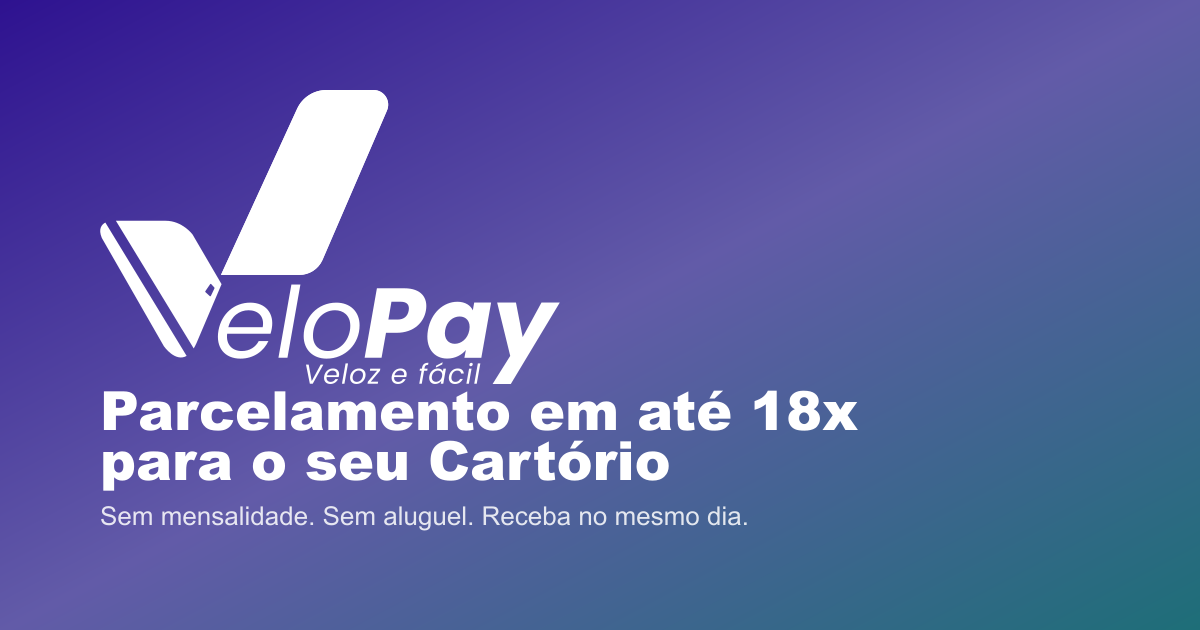
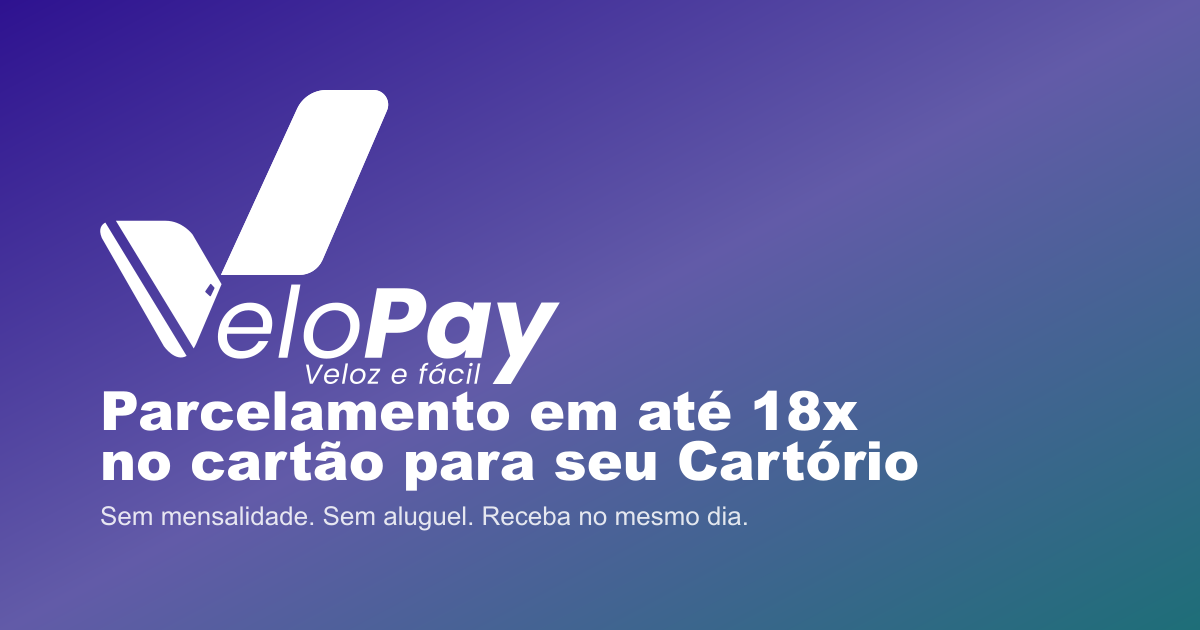
Ajustes finos de acabamento visual pós-rebrand
- Ícone do WhatsApp trocado de preenchido para contorno, consistente com o
  restante do sistema de ícones do site
- Overlay escurecido atrás do menu mobile ao abrir (fecha ao clicar fora)
- Texto do card de Open Graph atualizado pra bater com o H1 real da página
- Remoção de CSS morto de versões anteriores do design (.hero-tag,
  .tag-dot, .hero-above-card, .nav-logo img, .hero-logo-main, .cta-logo)

Changed region(s): [[0.0617, 0.6937, 0.7708, 0.7841]]

diff --git a/index.html b/index.html
@@ -43,7 +43,6 @@ a{text-decoration:none;color:inherit}
 
 /* ── NAV ── */
 nav{position:fixed;top:0;left:0;right:0;z-index:200;display:flex;align-items:center;justify-content:space-between;padding:0 64px;height:70px;background:rgba(255,255,255,0.94);backdrop-filter:blur(20px);border-bottom:1px solid var(--border)}
-.nav-logo img{height:64px;width:auto;object-fit:contain}
 .nav-links{display:flex;gap:34px;list-style:none}
 .nav-links a{color:var(--muted);font-size:0.88rem;font-weight:500;transition:color 0.2s}
 .nav-links a:hover{color:var(--purple)}
@@ -59,6 +58,8 @@ nav{position:fixed;top:0;left:0;right:0;z-index:200;display:flex;align-items:cen
 .nav-burger[aria-expanded="true"] span:nth-child(3){transform:translateY(-7px) rotate(-45deg)}
 .mobile-menu{display:none;position:fixed;top:70px;left:0;right:0;z-index:199;background:var(--white);border-bottom:1px solid var(--border);box-shadow:0 16px 32px rgba(16,12,40,0.1);flex-direction:column;gap:18px;max-height:0;overflow:hidden;opacity:0;padding:0 28px;transition:max-height 0.3s ease,opacity 0.3s ease,padding 0.3s ease}
 .mobile-menu.open{max-height:420px;opacity:1;padding:20px 28px}
+.mobile-menu-backdrop{display:none;position:fixed;top:70px;left:0;right:0;bottom:0;z-index:198;background:rgba(16,12,40,0.4);opacity:0;pointer-events:none;transition:opacity 0.3s ease}
+.mobile-menu-backdrop.open{opacity:1;pointer-events:auto}
 .mobile-menu-links{list-style:none;display:flex;flex-direction:column;gap:2px}
 .mobile-menu-links a{display:block;padding:13px 2px;color:var(--text);font-size:0.95rem;font-weight:600;border-bottom:1px solid var(--border)}
 .mobile-menu-actions{display:flex;flex-direction:column;gap:10px;margin-top:8px}
@@ -71,10 +72,6 @@ nav{position:fixed;top:0;left:0;right:0;z-index:200;display:flex;align-items:cen
 .hero-blob-2{position:absolute;bottom:-180px;left:-100px;width:500px;height:500px;border-radius:50%;background:radial-gradient(circle,rgba(58,163,179,0.09) 0%,transparent 65%);pointer-events:none}
 .hero-dot-grid{position:absolute;inset:0;background-image:radial-gradient(circle,rgba(98,91,168,0.11) 1.2px,transparent 1.2px);background-size:36px 36px;mask-image:radial-gradient(ellipse 75% 75% at 65% 40%,black 0%,transparent 80%);pointer-events:none}
 .hero-inner{position:relative;z-index:1;display:grid;grid-template-columns:1fr 1fr;gap:52px;align-items:center;max-width:1280px;margin:0 auto;width:100%}
-.hero-logo-main{margin-bottom:28px}.hero-logo-main img{height:90px;width:auto;object-fit:contain}
-.hero-tag{display:inline-flex;align-items:center;gap:8px;background:var(--success-light);border:1px solid rgba(63,145,66,0.28);color:var(--success);padding:6px 14px;border-radius:6px;font-size:0.75rem;font-weight:700;letter-spacing:0.07em;text-transform:uppercase;margin-bottom:20px}
-.tag-dot{width:6px;height:6px;border-radius:50%;background:var(--success);animation:blink 2s infinite}
-@keyframes blink{0%,100%{opacity:1}50%{opacity:0.3}}
 .hero h1{font-size:clamp(3rem,5vw,5.2rem);font-weight:900;line-height:0.97;letter-spacing:-0.045em;color:var(--dark);margin-bottom:22px}
 .h1-block{display:block}
 .h1-purple{color:var(--purple)}
@@ -103,7 +100,6 @@ nav{position:fixed;top:0;left:0;right:0;z-index:200;display:flex;align-items:cen
   object-fit:contain;
   filter:drop-shadow(0 8px 24px rgba(98,91,168,0.18));
 }
-.hero-above-card{font-family:'Bricolage Grotesque',sans-serif;font-weight:800;font-size:0.82rem;letter-spacing:0.08em;text-transform:uppercase;color:var(--purple);background:var(--purple-light);border:1px solid rgba(98,91,168,0.2);padding:8px 16px;border-radius:6px;text-align:center;margin-bottom:18px;}
 .hero-right{position:relative;display:flex;align-items:center;justify-content:center;padding:48px 24px}
 .credit-card{width:330px;height:202px;border-radius:20px;background:linear-gradient(135deg,#2E1290 0%,#625BA8 45%,#1E6E78 100%);box-shadow:0 40px 72px rgba(98,91,168,0.3),0 12px 28px rgba(0,0,0,0.15),inset 0 1px 0 rgba(255,255,255,0.2);padding:22px 24px;transform:perspective(900px) rotateY(-14deg) rotateX(5deg);transition:transform 0.7s ease;position:relative;overflow:hidden}
 .credit-card:hover{transform:perspective(900px) rotateY(-5deg) rotateX(2deg)}
@@ -255,7 +251,6 @@ nav{position:fixed;top:0;left:0;right:0;z-index:200;display:flex;align-items:cen
 .cta-grid-overlay{position:absolute;inset:0;background-image:linear-gradient(rgba(255,255,255,0.04) 1px,transparent 1px),linear-gradient(90deg,rgba(255,255,255,0.04) 1px,transparent 1px);background-size:52px 52px;pointer-events:none}
 .cta-glow{position:absolute;top:50%;left:50%;transform:translate(-50%,-50%);width:700px;height:350px;border-radius:50%;background:radial-gradient(ellipse,rgba(255,255,255,0.06) 0%,transparent 70%);pointer-events:none}
 .cta-inner{position:relative;z-index:1;max-width:640px;margin:0 auto}
-.cta-logo{margin-bottom:24px}.cta-logo img{height:64px;width:auto;object-fit:contain;filter:brightness(0) invert(1);opacity:0.88}
 .cta-eyebrow{display:inline-flex;align-items:center;gap:8px;font-size:0.73rem;font-weight:700;letter-spacing:0.12em;text-transform:uppercase;color:rgba(255,255,255,0.5);margin-bottom:16px}
 .cta-eyebrow::before{content:'';width:18px;height:2px;background:rgba(255,255,255,0.35);border-radius:2px}
 .cta-title{font-family:'Bricolage Grotesque',sans-serif;font-weight:900;font-size:clamp(2.4rem,4vw,3.6rem);line-height:1.06;letter-spacing:-0.035em;color:white;margin-bottom:12px}
@@ -295,7 +290,7 @@ footer{background:var(--dark2);padding:60px 64px 28px;border-top:1px solid rgba(
 /* ── RESPONSIVE ── */
 @media(max-width:1024px){
   nav{padding:0 20px}.nav-links{display:none}.nav-actions{display:none}
-  .nav-burger{display:flex}.mobile-menu{display:flex}
+  .nav-burger{display:flex}.mobile-menu{display:flex}.mobile-menu-backdrop{display:block}
   .sec-wrap,.cta-sec,footer{padding:68px 28px}
   .hero{padding:108px 28px 68px}
   .hero-inner{grid-template-columns:1fr}.hero-right{display:none}
@@ -334,6 +329,7 @@ footer{background:var(--dark2);padding:60px 64px 28px;border-top:1px solid rgba(
     <span></span><span></span><span></span>
   </button>
 </nav>
+<div class="mobile-menu-backdrop" id="mobileMenuBackdrop"></div>
 <div class="mobile-menu" id="mobileMenu">
   <ul class="mobile-menu-links">
     <li><a href="#como-funciona">Como funciona</a></li>
@@ -361,7 +357,7 @@ footer{background:var(--dark2);padding:60px 64px 28px;border-top:1px solid rgba(
       <p class="hero-desc">A plataforma para o seu cartório aceitar pagamentos no cartão — sem aluguel, sem mensalidade, com aplicação personalizada.</p>
       <div class="hero-btns">
         <a href="https://wa.me/5561985177034" class="btn-primary" target="_blank">
-          <svg width="17" height="17" viewBox="0 0 24 24" fill="currentColor"><path d="M17.472 14.382c-.297-.149-1.758-.867-2.03-.967-.273-.099-.471-.148-.67.15-.197.297-.767.966-.94 1.164-.173.199-.347.223-.644.075-.297-.15-1.255-.463-2.39-1.475-.883-.788-1.48-1.761-1.653-2.059-.173-.297-.018-.458.13-.606.134-.133.298-.347.446-.52.149-.174.198-.298.298-.497.099-.198.05-.371-.025-.52-.075-.149-.669-1.612-.916-2.207-.242-.579-.487-.5-.669-.51-.173-.008-.371-.01-.57-.01-.198 0-.52.074-.792.372-.272.297-1.04 1.016-1.04 2.479 0 1.462 1.065 2.875 1.213 3.074.149.198 2.096 3.2 5.077 4.487.709.306 1.262.489 1.694.625.712.227 1.36.195 1.871.118.571-.085 1.758-.719 2.006-1.413.248-.694.248-1.289.173-1.413-.074-.124-.272-.198-.57-.347m-5.421 7.403h-.004a9.87 9.87 0 01-5.031-1.378l-.361-.214-3.741.982.998-3.648-.235-.374a9.86 9.86 0 01-1.51-5.26c.001-5.45 4.436-9.884 9.888-9.884 2.64 0 5.122 1.03 6.988 2.898a9.825 9.825 0 012.893 6.994c-.003 5.45-4.437 9.884-9.885 9.884m8.413-18.297A11.815 11.815 0 0012.05 0C5.495 0 .16 5.335.157 11.892c0 2.096.547 4.142 1.588 5.945L.057 24l6.305-1.654a11.882 11.882 0 005.683 1.448h.005c6.554 0 11.89-5.335 11.893-11.893a11.821 11.821 0 00-3.48-8.413z"/></svg>
+          <svg width="17" height="17" viewBox="0 0 24 24" fill="none" stroke="currentColor" stroke-width="2" stroke-linecap="round" stroke-linejoin="round" aria-hidden="true"><path d="M21 11.5a8.38 8.38 0 01-.9 3.8 8.5 8.5 0 01-7.6 4.7 8.38 8.38 0 01-3.8-.9L3 21l1.9-5.7a8.38 8.38 0 01-.9-3.8 8.5 8.5 0 014.7-7.6 8.38 8.38 0 013.8-.9h.5a8.48 8.48 0 018 8v.5z"/></svg>
           Falar no WhatsApp
         </a>
         <a href="#como-funciona" class="btn-secondary">Como funciona <svg width="15" height="15" viewBox="0 0 24 24" fill="none" stroke="currentColor" stroke-width="2.5"><path d="M5 12h14M12 5l7 7-7 7"/></svg></a>
@@ -543,7 +539,7 @@ footer{background:var(--dark2);padding:60px 64px 28px;border-top:1px solid rgba(
       <button type="submit" class="btn-cta">Quero uma proposta</button>
     </form>
     <a href="https://wa.me/5561985177034" class="cta-wa" target="_blank">
-      <svg width="17" height="17" viewBox="0 0 24 24" fill="#25D366"><path d="M17.472 14.382c-.297-.149-1.758-.867-2.03-.967-.273-.099-.471-.148-.67.15-.197.297-.767.966-.94 1.164-.173.199-.347.223-.644.075-.297-.15-1.255-.463-2.39-1.475-.883-.788-1.48-1.761-1.653-2.059-.173-.297-.018-.458.13-.606.134-.133.298-.347.446-.52.149-.174.198-.298.298-.497.099-.198.05-.371-.025-.52-.075-.149-.669-1.612-.916-2.207-.242-.579-.487-.5-.669-.51-.173-.008-.371-.01-.57-.01-.198 0-.52.074-.792.372-.272.297-1.04 1.016-1.04 2.479 0 1.462 1.065 2.875 1.213 3.074.149.198 2.096 3.2 5.077 4.487.709.306 1.262.489 1.694.625.712.227 1.36.195 1.871.118.571-.085 1.758-.719 2.006-1.413.248-.694.248-1.289.173-1.413-.074-.124-.272-.198-.57-.347m-5.421 7.403h-.004a9.87 9.87 0 01-5.031-1.378l-.361-.214-3.741.982.998-3.648-.235-.374a9.86 9.86 0 01-1.51-5.26c.001-5.45 4.436-9.884 9.888-9.884 2.64 0 5.122 1.03 6.988 2.898a9.825 9.825 0 012.893 6.994c-.003 5.45-4.437 9.884-9.885 9.884m8.413-18.297A11.815 11.815 0 0012.05 0C5.495 0 .16 5.335.157 11.892c0 2.096.547 4.142 1.588 5.945L.057 24l6.305-1.654a11.882 11.882 0 005.683 1.448h.005c6.554 0 11.89-5.335 11.893-11.893a11.821 11.821 0 00-3.48-8.413z"/></svg>
+      <svg width="17" height="17" viewBox="0 0 24 24" fill="none" stroke="#25D366" stroke-width="2" stroke-linecap="round" stroke-linejoin="round" aria-hidden="true"><path d="M21 11.5a8.38 8.38 0 01-.9 3.8 8.5 8.5 0 01-7.6 4.7 8.38 8.38 0 01-3.8-.9L3 21l1.9-5.7a8.38 8.38 0 01-.9-3.8 8.5 8.5 0 014.7-7.6 8.38 8.38 0 013.8-.9h.5a8.48 8.48 0 018 8v.5z"/></svg>
       Falar direto no WhatsApp
     </a>
     <p class="cta-privacy" style="display:flex;align-items:center;justify-content:center;gap:6px"><svg viewBox="0 0 24 24" fill="none" stroke="currentColor" stroke-width="2" stroke-linecap="round" stroke-linejoin="round" width="13" height="13" aria-hidden="true"><rect x="4" y="11" width="16" height="9" rx="2"/><path d="M8 11V7a4 4 0 018 0v4"/></svg>Dados protegidos conforme a LGPD. Não compartilhamos suas informações.</p>
@@ -566,26 +562,30 @@ footer{background:var(--dark2);padding:60px 64px 28px;border-top:1px solid rgba(
 </footer>
 
 <a href="https://wa.me/5561985177034" class="wa" target="_blank">
-  <svg width="25" height="25" viewBox="0 0 24 24" fill="white"><path d="M17.472 14.382c-.297-.149-1.758-.867-2.03-.967-.273-.099-.471-.148-.67.15-.197.297-.767.966-.94 1.164-.173.199-.347.223-.644.075-.297-.15-1.255-.463-2.39-1.475-.883-.788-1.48-1.761-1.653-2.059-.173-.297-.018-.458.13-.606.134-.133.298-.347.446-.52.149-.174.198-.298.298-.497.099-.198.05-.371-.025-.52-.075-.149-.669-1.612-.916-2.207-.242-.579-.487-.5-.669-.51-.173-.008-.371-.01-.57-.01-.198 0-.52.074-.792.372-.272.297-1.04 1.016-1.04 2.479 0 1.462 1.065 2.875 1.213 3.074.149.198 2.096 3.2 5.077 4.487.709.306 1.262.489 1.694.625.712.227 1.36.195 1.871.118.571-.085 1.758-.719 2.006-1.413.248-.694.248-1.289.173-1.413-.074-.124-.272-.198-.57-.347m-5.421 7.403h-.004a9.87 9.87 0 01-5.031-1.378l-.361-.214-3.741.982.998-3.648-.235-.374a9.86 9.86 0 01-1.51-5.26c.001-5.45 4.436-9.884 9.888-9.884 2.64 0 5.122 1.03 6.988 2.898a9.825 9.825 0 012.893 6.994c-.003 5.45-4.437 9.884-9.885 9.884m8.413-18.297A11.815 11.815 0 0012.05 0C5.495 0 .16 5.335.157 11.892c0 2.096.547 4.142 1.588 5.945L.057 24l6.305-1.654a11.882 11.882 0 005.683 1.448h.005c6.554 0 11.89-5.335 11.893-11.893a11.821 11.821 0 00-3.48-8.413z"/></svg>
+  <svg width="25" height="25" viewBox="0 0 24 24" fill="none" stroke="white" stroke-width="2" stroke-linecap="round" stroke-linejoin="round" aria-hidden="true"><path d="M21 11.5a8.38 8.38 0 01-.9 3.8 8.5 8.5 0 01-7.6 4.7 8.38 8.38 0 01-3.8-.9L3 21l1.9-5.7a8.38 8.38 0 01-.9-3.8 8.5 8.5 0 014.7-7.6 8.38 8.38 0 013.8-.9h.5a8.48 8.48 0 018 8v.5z"/></svg>
 </a>
 
 <script>
 const navBurger = document.getElementById('navBurger');
 const mobileMenu = document.getElementById('mobileMenu');
+const mobileMenuBackdrop = document.getElementById('mobileMenuBackdrop');
 function closeMobileMenu(){
   navBurger.setAttribute('aria-expanded','false');
   navBurger.setAttribute('aria-label','Abrir menu');
   mobileMenu.classList.remove('open');
+  mobileMenuBackdrop.classList.remove('open');
 }
 function openMobileMenu(){
   navBurger.setAttribute('aria-expanded','true');
   navBurger.setAttribute('aria-label','Fechar menu');
   mobileMenu.classList.add('open');
+  mobileMenuBackdrop.classList.add('open');
 }
 navBurger.addEventListener('click', () => {
   const isOpen = navBurger.getAttribute('aria-expanded') === 'true';
   isOpen ? closeMobileMenu() : openMobileMenu();
 });
+mobileMenuBackdrop.addEventListener('click', closeMobileMenu);
 mobileMenu.querySelectorAll('a').forEach(a => a.addEventListener('click', closeMobileMenu));
 document.addEventListener('keydown', e => {
   if (e.key === 'Escape' && navBurger.getAttribute('aria-expanded') === 'true') {
